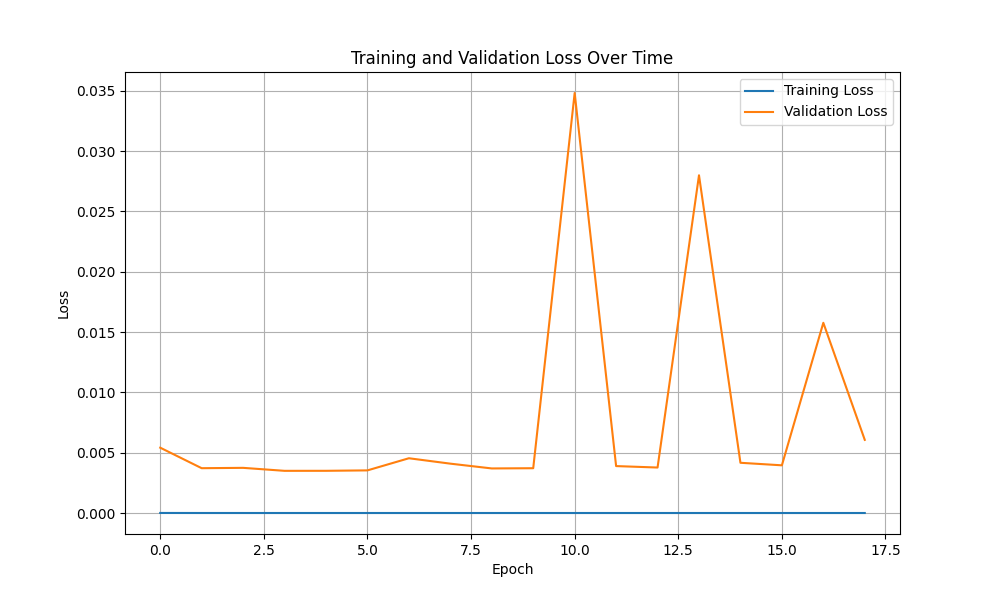
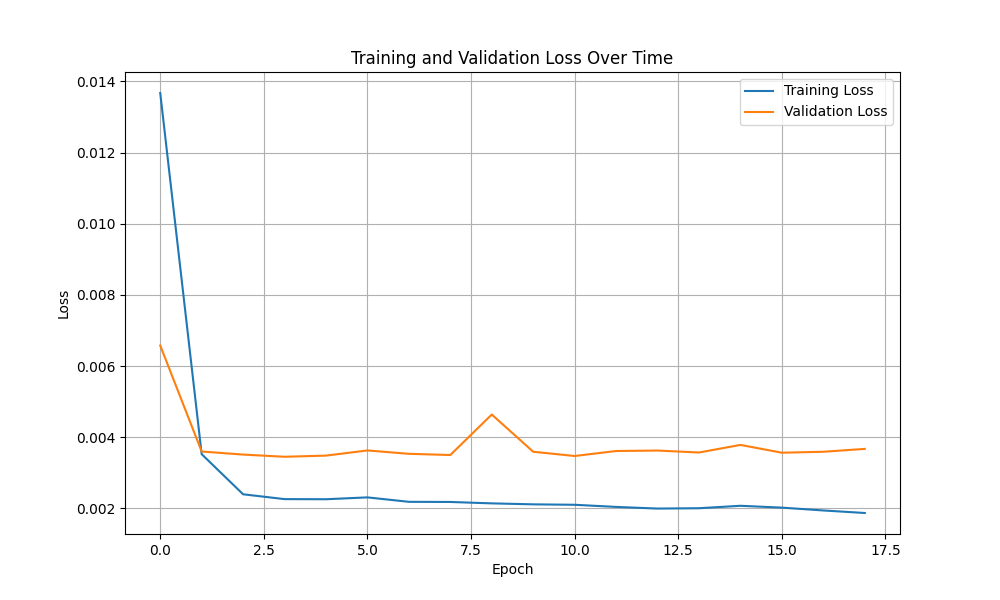
4-10

diff --git a/power_control/predictor/data_processor.py b/power_control/predictor/data_processor.py
@@ -36,7 +36,7 @@ class DataProcessor:
             # 'active_node_ratio',  # 改为使用比例
             'active_node_count',
             # 'utilization_rate',
-            'avg_req_cpu_occupancy_rate',
+            'avg_req_cpu_rate',
             'avg_req_node_per_job',
             'avg_req_cpu_per_job',
             'avg_runtime_minutes'
@@ -147,10 +147,8 @@ class DataProcessor:
         timestamps = pd.to_datetime(df['datetime'])
         
         for i in range(len(df) - lookback - forecast_horizon + 1):
-            # 1. 提取历史序列数据（现在使用的是节点占比）
             past_hour_data = df[self.pst_hour_feature_names].iloc[i:(i + lookback)].values
             
-            # 2. 获取目标时间点（目标值也是节点占比）
             target_start = i + lookback
             target_end = target_start + forecast_horizon
             target_value = df['active_node_count'].iloc[target_end-1]
@@ -381,7 +379,7 @@ class DataProcessor:
         )
         
         data_dict['y_test'] = self.target_scaler.transform(
-            data_dict['y_test']
+            data_dict['y_test'].reshape(-1, 1)
         )
         
         # 保存处理好的数据集

diff --git a/power_control/predictor/config.py b/power_control/predictor/config.py
@@ -11,7 +11,7 @@ os.makedirs(LOG_DIR, exist_ok=True)
 # 模型配置
 MODEL_CONFIG = {
     'epochs': 100,
-    'batch_size': 128,
+    'batch_size': 256,
     'learning_rate': 0.001,
     'min_lr': 1e-6,
     'lr_patience': 5,
@@ -26,7 +26,7 @@ MODEL_CONFIG = {
     # 'data_dir': "/home/hyq/green-energy/sk1",
     # 'data_path': os.path.join(DATA_DIR, 'training_data_20250120_190101.csv'),
     # 'data_path': "/home/hyq/green-energy/sk1/combined_job_timeline.csv",
-    'total_nodes': 150,
+    'total_nodes': 250,
     'data_path': "/home/hyq/green-energy/wm2/job_timeline_2024.csv",
     'log_dir': LOG_DIR,
     'grad_clip': 1.0,

diff --git a/power_control/predictor/trainer.py b/power_control/predictor/trainer.py
@@ -147,8 +147,6 @@ class Trainer:
                 print(f"\r进度: [{'=' * progress}{' ' * (50-progress)}] {batch_idx}/{batch_count} "
                       f"- 当前 loss: {loss_components['total_loss']:.6f}", end="")
             
-            train_loss /= len(data_loaders['train'])
-            
             # 验证阶段
             val_loss = self._validate(data_loaders['val'], self.criterion)
             
